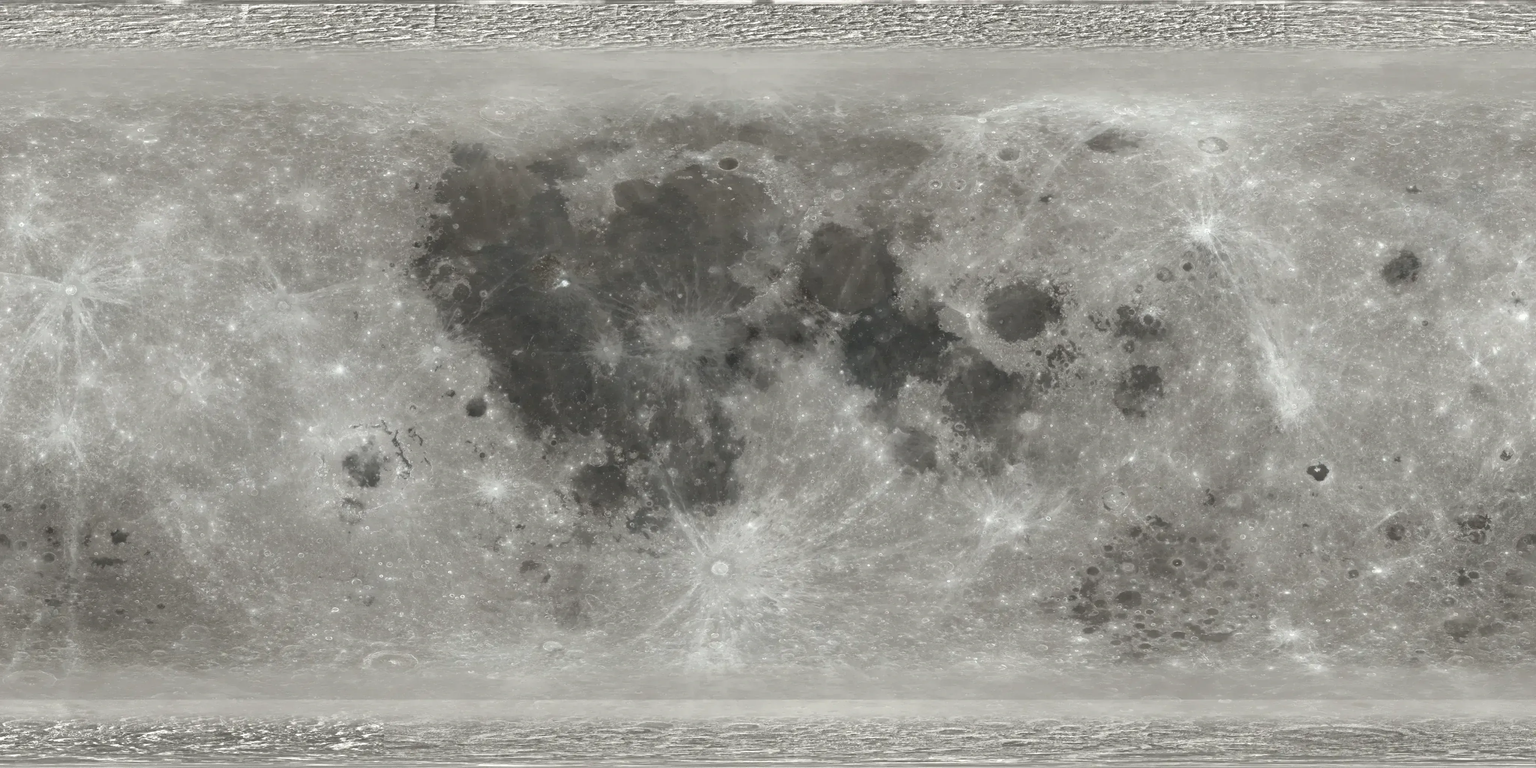
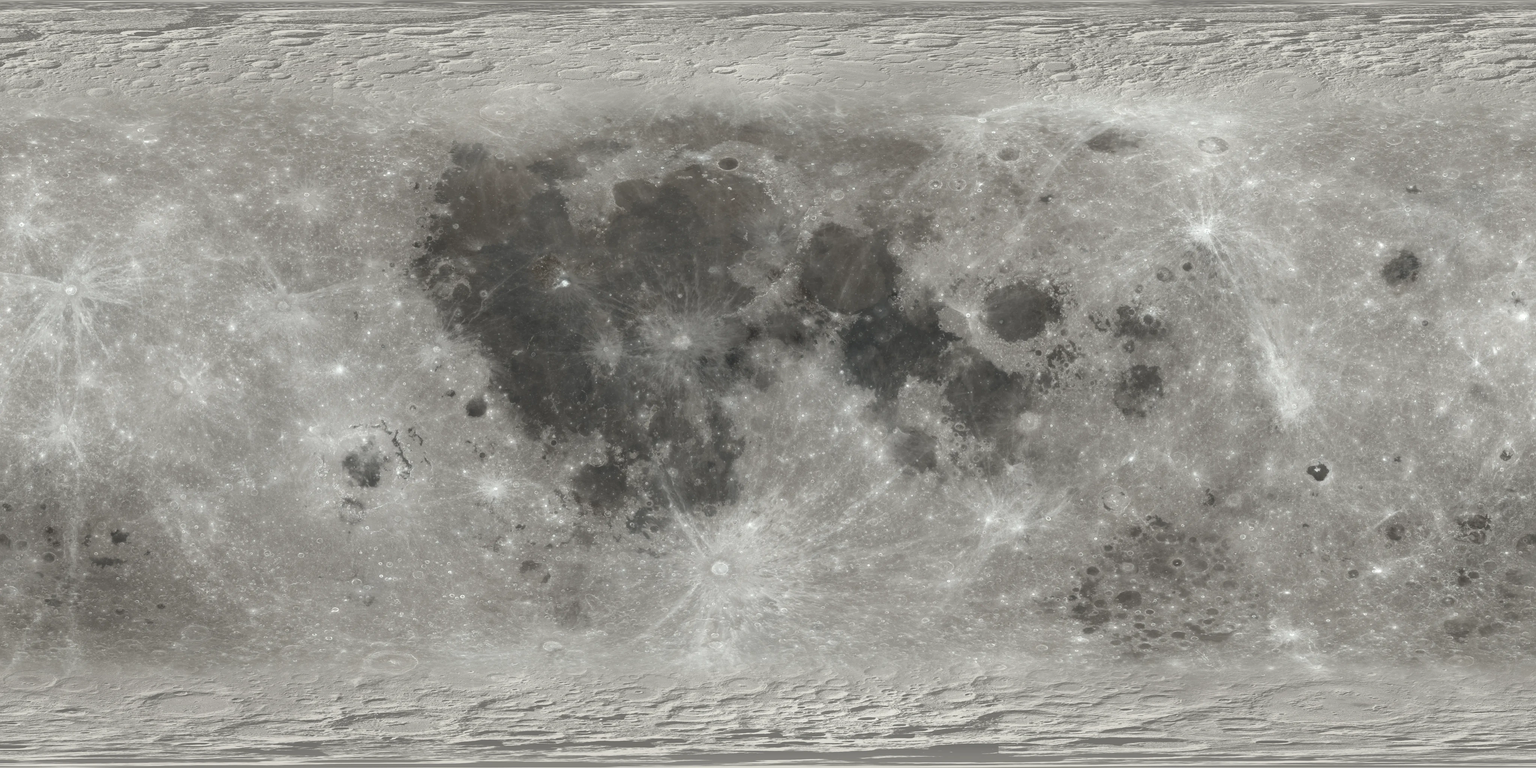
feat(moon): 更新月球极地纹理渲染系统
- 替换极地纹理文件名为 polar-north-matched.webp 和 polar-south-matched.webp
- 修改极地细节混合算法，将混合范围从68°-78°调整为76°-82°
- 添加新的 detail mix 统一变量控制极地细节显示
- 更新着色器代码以支持渐进式极地纹理混合
- 添加 updatePolarDetailMix 方法用于根据相机高度动态调整极地细节
- 新增 bake_registered_poles.py 工具脚本用于生成配准的极地纹理
- 修改测试用例中的极地混合角度验证值
- 更新浏览器测试页面中的相机位置计算逻辑

Changed region(s): [[0.0, 0.0, 1.0, 0.125], [0.0, 0.875, 1.0, 1.0]]

diff --git a/frontend/src/features/demos/scenes/moon/polarSurface.ts b/frontend/src/features/demos/scenes/moon/polarSurface.ts
@@ -4,10 +4,14 @@ import type { Vector3Like } from './selenography'
 
 /** NASA Moon Trek exports are in metres, over this fixed square (6144 pixels per side). */
 export const POLAR_EXTENT_M = 1_126_000
+// rho = 2R*cos(lat)/(1+sin(|lat|)); UV divides rho by the full 2*extent
+// image width. Those factors of two cancel, leaving R/extent below.
 const PROJECTION_SCALE = MOON_RADIUS_KM * 1000 / POLAR_EXTENT_M
 const radians = Math.PI / 180
-const FADE_START = Math.sin(68 * radians)
-const FADE_END = Math.sin(78 * radians)
+// Both atlas and native LOD are now resampled from the same colour-matched
+// master. Start the detail handover inside the fully baked region (>=74 deg).
+const FADE_START = Math.sin(76 * radians)
+const FADE_END = Math.sin(82 * radians)
 
 /** Texture coordinates, with TextureLoader's default flipY; no longitude singularity. */
 export function polarTextureUv(point: Vector3Like): [number, number] {
@@ -44,8 +48,11 @@ export function configurePolarSurface(material: THREE.MeshStandardMaterial) {
     lunarNorthReady: { value: 0 },
     lunarSouthReady: { value: 0 },
     lunarPoleHeights: { value: new THREE.Vector2(0.5, 0.5) },
+    // Start disabled so the first overview frame cannot flash a polar circle
+    // before the camera-distance update has run.
+    lunarDetailMix: { value: 0 },
   }
-  material.customProgramCacheKey = () => 'lunar-polar-surface-v1'
+  material.customProgramCacheKey = () => 'lunar-polar-registered-v2'
   material.onBeforeCompile = (shader) => {
     Object.assign(shader.uniforms, uniforms)
     shader.vertexShader = shader.vertexShader
@@ -69,7 +76,8 @@ varying vec3 lunarSurfaceDirection;
 uniform sampler2D lunarNorthMap;
 uniform sampler2D lunarSouthMap;
 uniform float lunarNorthReady;
-uniform float lunarSouthReady;`)
+uniform float lunarSouthReady;
+uniform float lunarDetailMix;`)
       .replace('#include <map_fragment>', `
 vec3 lunarDirection = normalize(lunarSurfaceDirection);
 float lunarAbsY = abs(lunarDirection.y);
@@ -78,16 +86,24 @@ vec4 lunarColour = vec4(1.0);
   lunarColour = texture2D(map, vMapUv);
 #endif
 float lunarWeight = smoothstep(${FADE_START}, ${FADE_END}, lunarAbsY);
-if (lunarWeight > 0.0) {
+vec4 lunarPolarColour = lunarColour;
+float lunarPolarReady = 0.0;
+vec2 lunarUv = vec2(0.5);
+if (lunarWeight > 0.0 && lunarDetailMix > 0.0) {
   // x=cos(lat)cos(lon), z=-cos(lat)sin(lon). North stereographic Y points
   // away from lon=0; the south projection reverses Y. UV V points up (flipY=true).
-  vec2 lunarUv = vec2(0.5) + vec2(-lunarDirection.z, -sign(lunarDirection.y) * lunarDirection.x)
+  lunarUv = vec2(0.5) + vec2(-lunarDirection.z, -sign(lunarDirection.y) * lunarDirection.x)
     * (${PROJECTION_SCALE} / (1.0 + lunarAbsY));
   if (lunarDirection.y >= 0.0 && lunarNorthReady > 0.5) {
-    lunarColour = mix(lunarColour, texture2D(lunarNorthMap, lunarUv), lunarWeight);
+    lunarPolarColour = texture2D(lunarNorthMap, lunarUv);
+    lunarPolarReady = 1.0;
   } else if (lunarDirection.y < 0.0 && lunarSouthReady > 0.5) {
-    lunarColour = mix(lunarColour, texture2D(lunarSouthMap, lunarUv), lunarWeight);
+    lunarPolarColour = texture2D(lunarSouthMap, lunarUv);
+    lunarPolarReady = 1.0;
   }
+}
+if (lunarPolarReady > 0.5) {
+  lunarColour = mix(lunarColour, lunarPolarColour, lunarWeight * lunarDetailMix);
 }
 diffuseColor *= lunarColour;`)
       .replace('#include <normal_fragment_maps>', `
@@ -114,6 +130,9 @@ diffuseColor *= lunarColour;`)
     },
     setPoleHeights(north: number, south: number) {
       uniforms.lunarPoleHeights.value.set(north, south)
+    },
+    setDetailMix(value: number) {
+      uniforms.lunarDetailMix.value = THREE.MathUtils.clamp(value, 0, 1)
     },
     dispose() {
       uniforms.lunarNorthMap.value?.dispose()

diff --git a/frontend/src/features/demos/scenes/moon/scene.ts b/frontend/src/features/demos/scenes/moon/scene.ts
@@ -404,7 +404,7 @@ export class MoonScene implements DemoScene {
     const apply = (index: number): void => {
       const step = ladder[index]
       if (!step) return
-      const url = `${base}demos/moon/${step.file}`
+      const url = `${base}demos/moon/${step.file}?registered-poles=2`
       const texture = loader.load(
         url,
         () => {
@@ -481,7 +481,7 @@ export class MoonScene implements DemoScene {
   private loadPolarCaps(): void {
     const loader = new THREE.TextureLoader()
     for (const hemisphere of ['north', 'south'] as const) {
-      loader.load(`${import.meta.env.BASE_URL}demos/moon/polar-${hemisphere}.webp`, (texture) => {
+      loader.load(`${import.meta.env.BASE_URL}demos/moon/polar-${hemisphere}-matched.webp`, (texture) => {
         if (this.disposed) {
           texture.dispose()
           return
@@ -582,6 +582,7 @@ export class MoonScene implements DemoScene {
     this.updateFlight(deltaSeconds)
     if (!this.focusedId) this.clampCameraAltitude()
     this.updateCameraClip()
+    this.updatePolarDetailMix()
     this.scaleMarkersToCamera()
     this.updateDetail()
     this.labelElapsed += deltaSeconds
@@ -590,6 +591,20 @@ export class MoonScene implements DemoScene {
       this.publishLabels()
     }
     this.publishReadout(false, deltaSeconds)
+  }
+
+  /** Fade the high-resolution polar mosaic in only when it has enough screen size. */
+  private updatePolarDetailMix(): void {
+    const altitude = this.focusedId
+      ? this.focusDistance
+      : Math.max(this.stage.camera.position.length() - SCENE.radius, 0)
+    // Keep the polar mosaic out of the overview. Its native resolution is much
+    // higher than the global atlas, so even a colour-matched blend would expose
+    // a circular frequency boundary at lunar-disc scale.
+    // Keep the overview on one global-atlas representation. The polar mosaic
+    // fades in only after the camera is genuinely close to the surface.
+    const t = THREE.MathUtils.clamp((1.62 - altitude) / 0.48, 0, 1)
+    this.polarSurface.setDetailMix(t * t * (3 - 2 * t))
   }
 
   /**

diff --git a/frontend/tests/browser/moon-polar.html b/frontend/tests/browser/moon-polar.html
@@ -8,13 +8,14 @@ import { MoonScene } from '/src/features/demos/scenes/moon/scene.ts'
 const params = new URLSearchParams(location.search)
 const hemisphere = params.get('pole') || 'north'
 const close = params.get('near') === '1'
+const altitude = Number(params.get('altitude') || (close ? .45 : 2.05))
 const scene = new MoonScene(document.querySelector('#scene'))
 scene.setSuspended(true)
 scene.flight = null
 scene.stage.controls.enabled = false
 scene.applySettings({fullBright: params.get('lit') !== '1', brightness: 1, labels: false})
 const camera = scene.stage.camera
-camera.position.set(0, (hemisphere === 'south' ? -1 : 1) * (close ? 1.45 : 3.05), 0)
+camera.position.set(0, (hemisphere === 'south' ? -1 : 1) * (1 + altitude), 0)
 camera.up.set(0, 0, -1)
 camera.lookAt(0, 0, 0)
 camera.updateMatrixWorld()
@@ -29,6 +30,10 @@ if (params.get('focus') === '1') {
 THREE.DefaultLoadingManager.onLoad = () => {
   try {
     const renderer = scene.stage.renderer
+    // This harness suspends animation. Explicitly run the actual distance update
+    // before rendering; previous screenshots accidentally tested the default mix.
+    scene.updatePolarDetailMix()
+    if (params.has('mix')) scene.polarSurface.setDetailMix(Number(params.get('mix')))
     const errors = []
     renderer.debug.onShaderError = (gl, program, vs, fs) => {
       errors.push(gl.getProgramInfoLog(program), gl.getShaderInfoLog(vs), gl.getShaderInfoLog(fs))

diff --git a/frontend/src/features/demos/scenes/moon/polarSurface.test.ts b/frontend/src/features/demos/scenes/moon/polarSurface.test.ts
@@ -29,10 +29,10 @@ describe('native polar imagery registration', () => {
     const east = polarTextureUv(lonLatToVector(180, 80))
     expect(west[0]).toBeCloseTo(east[0], 10)
     expect(west[1]).toBeCloseTo(east[1], 10)
-    expect(polarBlend(67)).toBe(0)
-    expect(polarBlend(73)).toBeGreaterThan(0)
-    expect(polarBlend(73)).toBeLessThan(1)
-    expect(polarBlend(-78)).toBe(1)
+    expect(polarBlend(75)).toBe(0)
+    expect(polarBlend(79)).toBeGreaterThan(0)
+    expect(polarBlend(79)).toBeLessThan(1)
+    expect(polarBlend(-82)).toBe(1)
     expect(polarBlend(90)).toBe(1)
   })
 

diff --git a/tools/moon-textures/bake_registered_poles.py b/tools/moon-textures/bake_registered_poles.py
@@ -1,0 +1,148 @@
+"""Build both atlas LODs and native polar LODs from one colour-matched master.
+
+Inputs are immutable: the original SVS atlas and cached NASA polar mosaics.
+Never use the previously baked public atlas as input (detail would accumulate).
+No network is needed when the Moon Trek downloads have already been cached.
+"""
+from __future__ import annotations
+
+import argparse
+import hashlib
+import json
+from pathlib import Path
+
+import numpy as np
+from PIL import Image, ImageFilter
+
+RADIUS = 1_737_400.0
+EXTENT = 1_126_000.0
+
+
+def smoothstep(a, b, x):
+    t = np.clip((x - a) / (b - a), 0, 1)
+    return t * t * (3 - 2 * t)
+
+
+def linear(x):
+    return np.where(x <= .04045, x / 12.92, ((x + .055) / 1.055) ** 2.4)
+
+
+def encoded(x):
+    x = np.clip(x, 0, 1)
+    return np.where(x <= .0031308, x * 12.92, 1.055 * x ** (1 / 2.4) - .055)
+
+
+def rgb_image(x):
+    return Image.fromarray(np.uint8(np.clip(x * 255 + .5, 0, 255)))
+
+
+def sample(a, u, v, wrap=False):
+    """Pixel-centred bilinear sampler; u/v have the same convention as image rows."""
+    h, w = a.shape[:2]
+    x, y = u * w - .5, np.clip(v * h - .5, 0, h - 1)
+    x0, y0 = np.floor(x).astype(int), np.floor(y).astype(int)
+    fx, fy = (x - x0)[..., None], (y - y0)[..., None]
+    x1, y1 = x0 + 1, np.minimum(y0 + 1, h - 1)
+    if wrap:
+        x0, x1 = x0 % w, x1 % w
+    else:
+        x0, x1 = np.clip(x0, 0, w - 1), np.clip(x1, 0, w - 1)
+    return ((a[y0, x0] * (1-fx) + a[y0, x1] * fx) * (1-fy)
+            + (a[y1, x0] * (1-fx) + a[y1, x1] * fx) * fy)
+
+
+def native_lonlat(size, hemisphere, rows):
+    x = ((np.arange(size, dtype=np.float32) + .5) / size * 2 - 1) * EXTENT
+    y = (1 - (rows[:, None] + .5) / size * 2) * EXTENT
+    rho = np.hypot(x, y)
+    lat = 90 - np.degrees(2 * np.arctan(rho / (2 * RADIUS)))
+    lon = np.arctan2(x, -y if hemisphere == 'north' else y)
+    return lon, lat if hemisphere == 'north' else -lat
+
+
+def polar_uv(lon, lat):
+    rho = 2 * RADIUS * np.tan(np.radians(90 - np.abs(lat)) / 2)
+    x = rho * np.sin(lon)
+    y = rho * np.cos(lon) * np.where(lat >= 0, -1, 1)
+    return .5 + x / (2 * EXTENT), .5 - y / (2 * EXTENT)
+
+
+def make_master(atlas, source, hemisphere):
+    # Compute only smooth colour/illumination fields at low resolution in the
+    # native Cartesian projection, never along converging longitude rows.
+    small = 512
+    lon, lat = native_lonlat(small, hemisphere, np.arange(small))
+    target = sample(atlas, (lon / (2*np.pi) + .5) % 1, (90-lat)/180, True)
+    target_low = np.asarray(rgb_image(target).filter(ImageFilter.GaussianBlur(14)), np.float32) / 255
+    src_low = np.asarray(source.convert('RGB').resize((small, small), Image.Resampling.LANCZOS)
+                         .filter(ImageFilter.GaussianBlur(14)), np.float32) / 255
+    size = source.width
+    original = np.asarray(source.convert('L'), np.float32) / 255
+    output = np.empty((size, size, 3), np.uint8)
+    for start in range(0, size, 128):
+        rows = np.arange(start, min(start+128, size))
+        lon, lat = native_lonlat(size, hemisphere, rows)
+        u = np.broadcast_to((np.arange(size)+.5)/size, lon.shape)
+        v = np.broadcast_to((rows[:, None]+.5)/size, lon.shape)
+        target_field = linear(sample(target_low, u, v))
+        source_field = linear(sample(src_low, u, v))[..., :1]
+        signal = linear(original[rows, :, None])
+        # Multiplicative, bounded low-frequency exposure matching preserves rim
+        # positions and avoids the additive grey veil of the old shader curve.
+        detail = np.clip(np.log((signal + .015)/(source_field + .015)), -1.8, 1.0)
+        matched = target_field * np.exp(detail * .50)
+        base = linear(sample(atlas, (lon/(2*np.pi)+.5)%1, (90-lat)/180, True))
+        weight = smoothstep(60, 74, np.abs(lat))[..., None]
+        output[rows] = np.uint8(np.clip(encoded(base*(1-weight) + matched*weight)*255+.5, 0, 255))
+    return Image.fromarray(output)
+
+
+def bake_atlas(base, masters):
+    output = np.array(base.convert('RGB'))
+    h, w = output.shape[:2]
+    lon = (-np.pi + (np.arange(w)+.5) * 2*np.pi/w)[None, :]
+    for hemisphere, master in masters.items():
+        source = np.asarray(master, np.float32)/255
+        for start in range(0, h, 64):
+            rows = np.arange(start, min(start+64, h))
+            lat = 90 - (rows[:, None]+.5)*180/h
+            valid_rows = (lat[:, 0] > 60) if hemisphere == 'north' else (lat[:, 0] < -60)
+            rows, lat = rows[valid_rows], lat[valid_rows]
+            if not len(rows):
+                continue
+            u, v = polar_uv(lon, lat)
+            output[rows] = np.uint8(np.clip(sample(source, u, v)*255+.5, 0, 255))
+    return Image.fromarray(output)
+
+
+def main():
+    p = argparse.ArgumentParser(description=__doc__)
+    p.add_argument('--atlas', type=Path, required=True)
+    p.add_argument('--sources', type=Path, required=True)
+    p.add_argument('--out', type=Path, required=True)
+    args = p.parse_args()
+    args.out.mkdir(parents=True, exist_ok=True)
+    base = Image.open(args.atlas).convert('RGB')
+    atlas = np.asarray(base, np.float32)/255
+    masters = {}
+    report = {'atlasSource': str(args.atlas), 'inputs': {}, 'method': 'native Cartesian exposure match; shared master; 60-74 degree bake; 180 degree atlas height'}
+    for hemi in ('north', 'south'):
+        path = args.sources / f'polar-ortho-{hemi}-mosaic.png'
+        print(f'{hemi}: matching native master', flush=True)
+        source = Image.open(path)
+        master = make_master(atlas, source, hemi)
+        dest = args.out / f'polar-{hemi}-matched.webp'
+        master.save(dest, quality=90, method=6)
+        # Bake the decoded delivered texture, not an uncompressed approximation.
+        masters[hemi] = Image.open(dest).convert('RGB')
+        report['inputs'][hemi] = {'path': str(path), 'sha256': hashlib.sha256(path.read_bytes()).hexdigest(), 'size': source.size}
+    print('baking registered atlas', flush=True)
+    baked = bake_atlas(base, masters)
+    baked.save(args.out/'moon-color-8k.webp', quality=90, method=6)
+    baked.resize((4096, 2048), Image.Resampling.LANCZOS).save(args.out/'moon-color-4k.webp', quality=90, method=6)
+    (args.out/'registered-poles.json').write_text(json.dumps(report, indent=2), encoding='utf-8')
+    print('done', flush=True)
+
+
+if __name__ == '__main__':
+    main()

diff --git a/frontend/public/demos/moon/ATTRIBUTION.md b/frontend/public/demos/moon/ATTRIBUTION.md
@@ -141,12 +141,11 @@ collision and bounded-input controls:
 
 ## Polar caps
 
-Runtime correction (2026-09-12): `polar-north.webp` and `polar-south.webp` are 6144-square
-exports over projected bounds ±1,126,000 metres. `polarSurface.ts` samples these native images
-directly in the globe material, using a Moon radius of 1,737,400 metres and the north/south
-stereographic central-meridian orientations. TextureLoader's vertical flip is accounted for.
-There are no separate floating cap meshes or distance-based visibility switches. Colour blends
-from the global map between 68° and 78° absolute latitude and stays registered at every zoom.
+Runtime correction (2026-09-12): `polar-north-matched.webp` and `polar-south-matched.webp` are
+derived from the same native LRO mosaics used to bake the 8K/4K atlas polar rows. The native
+polar projection is sampled on one shared colour-matched master, so the near view changes only
+resolution. Runtime detail blends from the global map between 76° and 82° absolute latitude.
+There are no separate floating cap meshes or distance-based visibility switches.
 The underlying globe still uses LOLA displacement. Duplicate pole vertices converge to one
 mean elevation over the final 1.5°, and the singular equirectangular bump term fades between
 85° and 89°. The source WAC mosaics retain photographed shadows: full-bright scene lighting
